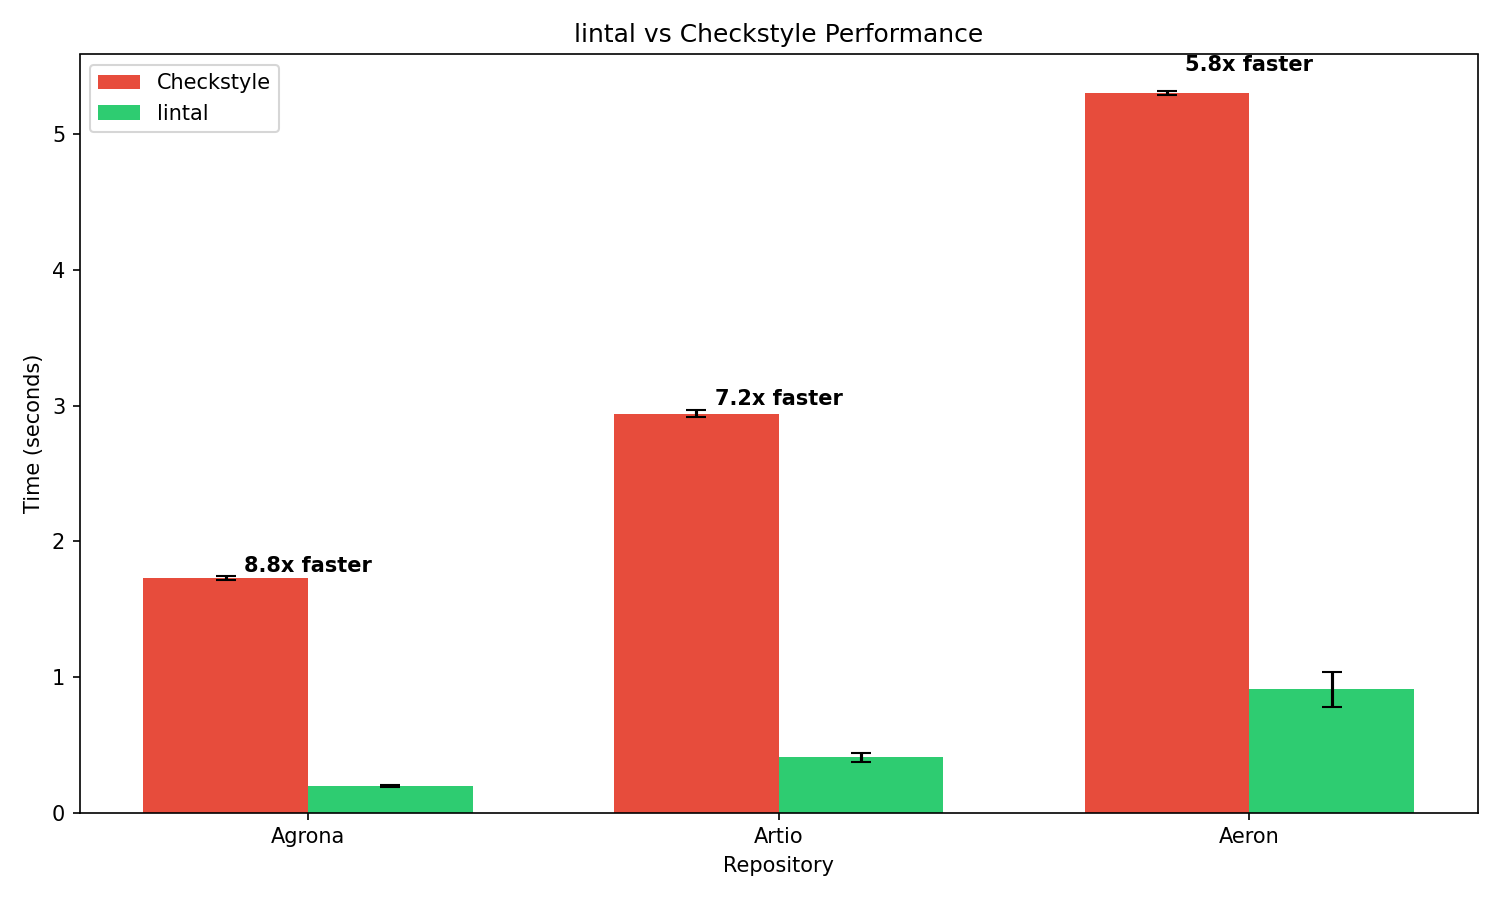
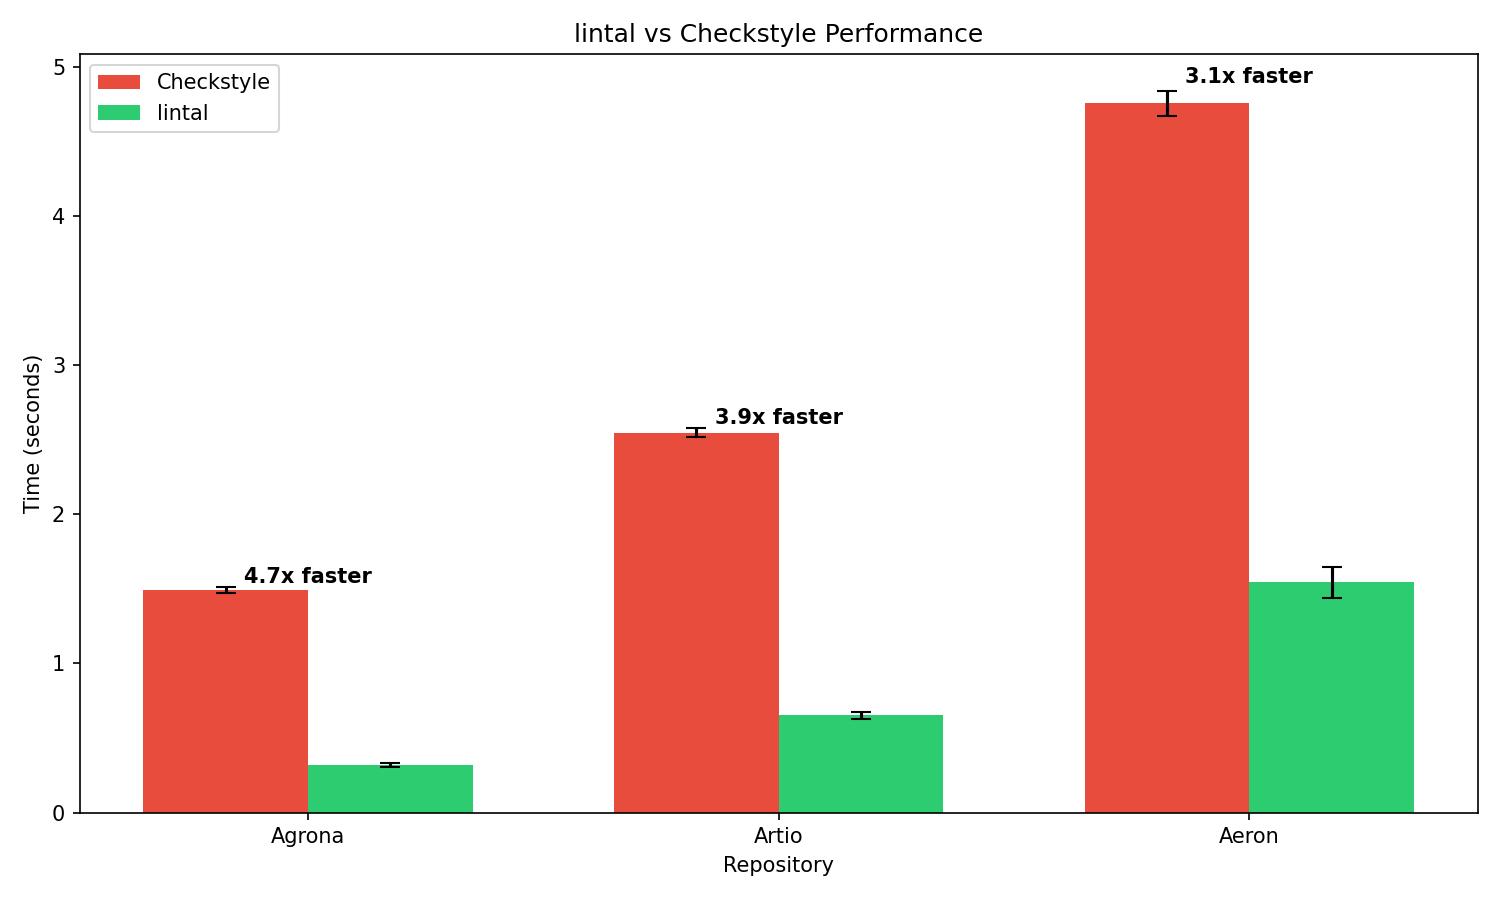
docs: update benchmark results with 23 rules
Update performance benchmarks with latest results:
- Agrona: 4.7x faster (0.32s vs 1.49s)
- Artio: 3.9x faster (0.65s vs 2.55s)
- Aeron: 3.1x faster (1.54s vs 4.76s)

Benchmarks now use 23 of 29 supported rules (added OperatorWrap,
EmptyLineSeparator, SimplifyBooleanReturn).

Also update release version to v0.1.2.

🤖 Generated with [Claude Code](https://claude.com/claude-code)

diff --git a/README.md b/README.md
@@ -26,13 +26,13 @@ Since introducing lintal, we're spending less time on the checkstyle step—givi
 
 lintal is significantly faster than checkstyle due to native compilation and parallel processing (along with the Ruff heritage).
 
-**Benchmark vs Checkstyle 12.3.0** (same files, 21 of 27 supported rules, 10 runs each after warmup):
+**Benchmark vs Checkstyle 12.3.0** (same files, 23 of 29 supported rules, 10 runs each after warmup):
 
 | Repository | Files | Checkstyle | lintal | Speedup |
 |------------|-------|------------|--------|---------|
-| Agrona | 289 | 1.73s ± 0.01s | 0.20s ± 0.01s | **8.8x** |
-| Artio | 726 | 2.94s ± 0.02s | 0.41s ± 0.03s | **7.2x** |
-| Aeron | 934 | 5.30s ± 0.02s | 0.91s ± 0.13s | **5.8x** |
+| Agrona | 289 | 1.49s ± 0.02s | 0.32s ± 0.02s | **4.7x** |
+| Artio | 726 | 2.55s ± 0.03s | 0.65s ± 0.02s | **3.9x** |
+| Aeron | 929 | 4.76s ± 0.08s | 1.54s ± 0.11s | **3.1x** |
 
 ![Benchmark Results](docs/benchmark_results.png)
 
@@ -62,7 +62,7 @@ lintal supports macOS and Linux. Windows support is a non-goal.
 
 | Distribution   | Status  | Command                                          |
 |----------------|---------|--------------------------------------------------|
-| GitHub Release | [v0.1.1](https://github.com/eleventy7/lintal/releases/tag/v0.1.1) | Direct download |
+| GitHub Release | [v0.1.2](https://github.com/eleventy7/lintal/releases/tag/v0.1.2) | Direct download |
 | Homebrew       | Working | `brew tap eleventy7/lintal && brew install lintal` |
 | mise ubi       | Ready   | `mise use ubi:eleventy7/lintal`                  |
 
